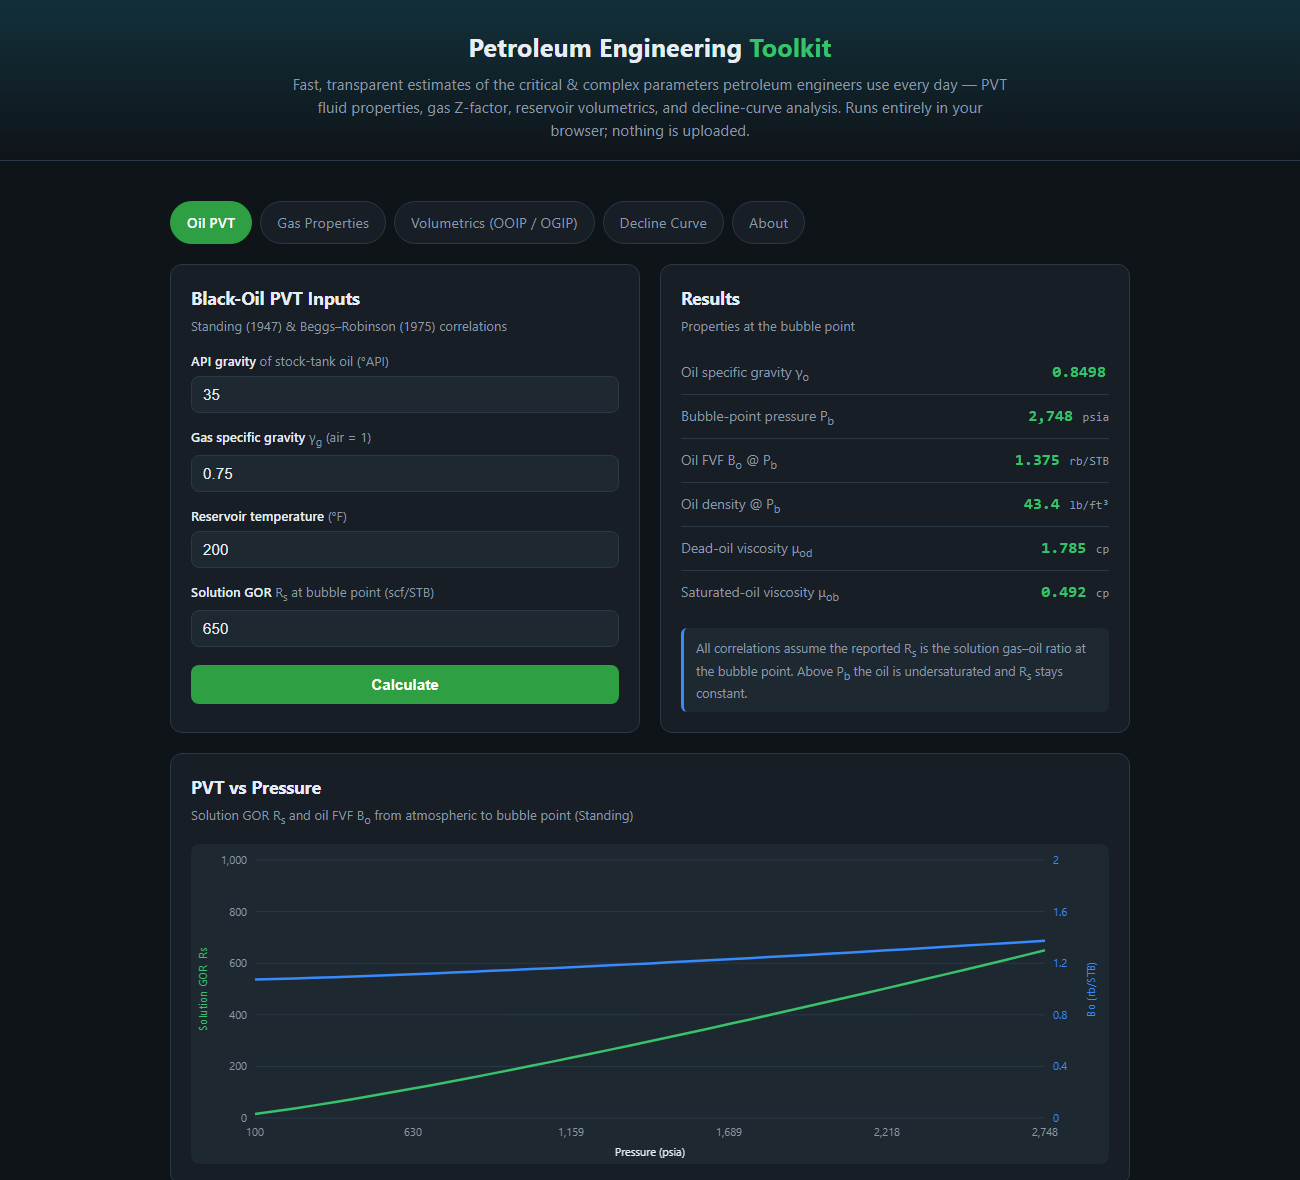
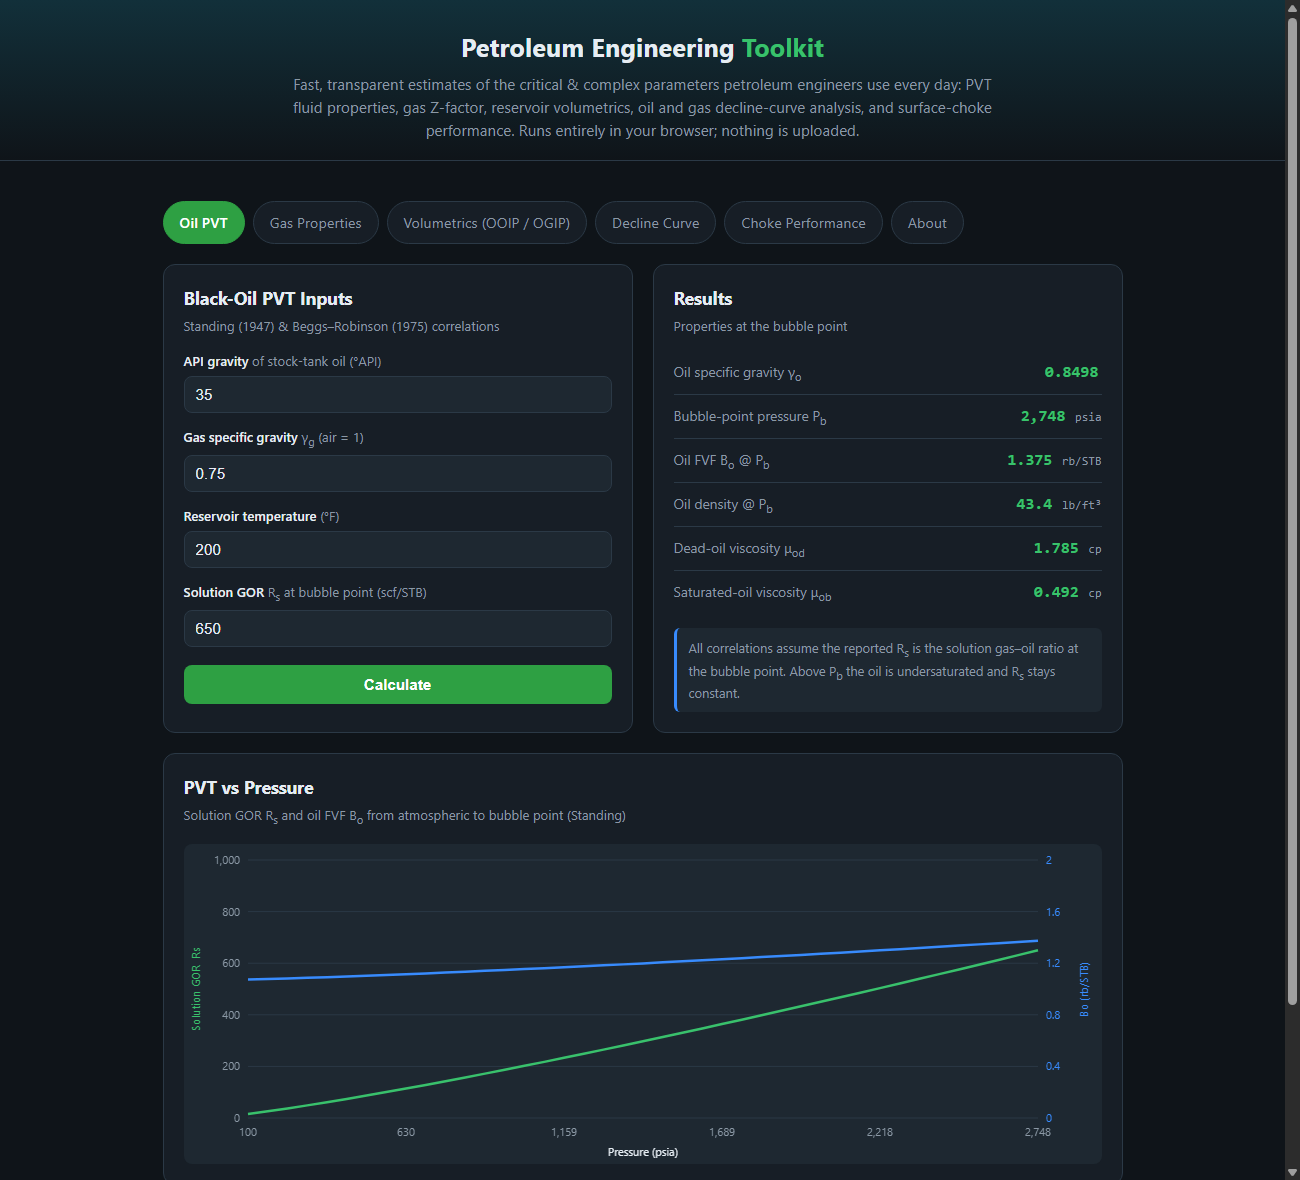
Add Choke Performance module: Gilbert-type critical-flow correlations
New fifth tab that solves P_wh = A*qL*R^B / S^C for liquid rate,
wellhead pressure or bean size, using Gilbert (1954), Ros (1960),
Baxendell (1957) and Achong (1961) constants.

- reports gas rate, bean diameter/area and all four correlations side by side
- flags sub-critical flow from the downstream/upstream pressure ratio,
  and bean sizes or GLRs outside the usual application range
- choke performance curve: liquid rate vs bean size for all four
  correlations, with the operating point marked
- lineChart gains an optional shared y-axis with legend
- constants stated for R in scf/STB, with the Mscf/STB (A = 435) form noted

Suggested by a reader on LinkedIn.

diff --git a/index.html b/index.html
@@ -4,7 +4,7 @@
 <meta charset="UTF-8" />
 <meta name="viewport" content="width=device-width, initial-scale=1.0" />
 <title>Petroleum Engineering Toolkit · PVT &amp; Reservoir Parameters</title>
-<meta name="description" content="Free browser-based calculator for critical petroleum-engineering parameters: PVT fluid properties, gas Z-factor, reservoir volumetrics (OOIP/OGIP) and Arps decline-curve analysis for oil and gas wells." />
+<meta name="description" content="Free browser-based calculator for critical petroleum-engineering parameters: PVT fluid properties, gas Z-factor, reservoir volumetrics (OOIP/OGIP), Arps decline-curve analysis and surface-choke performance for oil and gas wells." />
 <style>
   :root{
     --bg:#0f1419; --panel:#171e26; --panel2:#1e2831; --line:#2b3946;
@@ -61,7 +61,7 @@
 <header>
   <h1>Petroleum Engineering <span>Toolkit</span></h1>
   <p>Fast, transparent estimates of the critical &amp; complex parameters petroleum engineers use every day:
-     PVT fluid properties, gas Z-factor, reservoir volumetrics, and oil and gas decline-curve analysis. Runs entirely in your browser; nothing is uploaded.</p>
+     PVT fluid properties, gas Z-factor, reservoir volumetrics, oil and gas decline-curve analysis, and surface-choke performance. Runs entirely in your browser; nothing is uploaded.</p>
 </header>
 
 <div class="wrap">
@@ -70,6 +70,7 @@
     <div class="tab" data-view="gas">Gas Properties</div>
     <div class="tab" data-view="vol">Volumetrics (OOIP / OGIP)</div>
     <div class="tab" data-view="decline">Decline Curve</div>
+    <div class="tab" data-view="choke">Choke Performance</div>
     <div class="tab" data-view="about">About</div>
   </div>
 
@@ -198,6 +199,48 @@
     </div>
   </div>
 
+  <!-- ============ CHOKE ============ -->
+  <div class="view" id="choke">
+    <div class="grid">
+      <div class="card">
+        <h2>Surface Choke Inputs</h2>
+        <div class="sub">Gilbert-type critical-flow correlations: P<sub>wh</sub> = A&middot;q<sub>L</sub>&middot;R<sup>B</sup> / S<sup>C</sup></div>
+        <div class="seg" id="ck_solve">
+          <button type="button" class="seg-btn active" data-solve="q">Solve rate</button>
+          <button type="button" class="seg-btn" data-solve="p">Solve P<sub>wh</sub></button>
+          <button type="button" class="seg-btn" data-solve="s">Solve choke</button>
+        </div>
+        <div class="field"><label><b>Correlation</b></label>
+          <select id="ck_corr">
+            <option value="gilbert">Gilbert (1954)</option>
+            <option value="ros">Ros (1960)</option>
+            <option value="baxendell">Baxendell (1957)</option>
+            <option value="achong">Achong (1961)</option>
+          </select>
+        </div>
+        <div class="field" id="ck_p_wrap"><label><b>Wellhead (upstream) pressure</b> P<sub>wh</sub> (psig)</label><input id="ck_p" type="number" step="10" value="900"></div>
+        <div class="field" id="ck_q_wrap"><label><b>Gross liquid rate</b> q<sub>L</sub> (STB/day)</label><input id="ck_q" type="number" step="10" value="950"></div>
+        <div class="field" id="ck_s_wrap"><label><b>Choke bean size</b> S (64ths of an inch)</label><input id="ck_s" type="number" step="1" value="24"></div>
+        <div class="field"><label><b>Producing gas/liquid ratio</b> R (scf/STB)</label><input id="ck_glr" type="number" step="50" value="800"></div>
+        <div class="field"><label><b>Flowline (downstream) pressure</b> P<sub>dn</sub> (psig, for the critical-flow check)</label><input id="ck_pdn" type="number" step="10" value="150"></div>
+        <button class="btn" onclick="calcChoke()">Calculate</button>
+      </div>
+      <div class="card">
+        <h2>Results</h2>
+        <div class="sub" id="ck_res_sub">Critical (sonic) flow through a surface bean choke</div>
+        <div class="results" id="ck_out">
+          <div class="res-row"><span class="k">Press Calculate to compute</span><span class="v">&mdash;</span></div>
+        </div>
+        <div class="note" id="ck_note">Valid only in <b>critical flow</b>, where the bean is choked and the rate no longer responds to downstream pressure. Constants here are stated for R in scf/STB; texts that write R in Mscf/STB scale the coefficient by 1000<sup>B</sup> (Gilbert: 435).</div>
+      </div>
+    </div>
+    <div class="card chart-card">
+      <h2>Choke Performance Curve</h2>
+      <div class="sub" id="ck_chart_sub">Liquid rate vs bean size, all four correlations; &#9679; marks your operating point</div>
+      <canvas id="ck_chart" class="chart"></canvas>
+    </div>
+  </div>
+
   <!-- ============ ABOUT ============ -->
   <div class="view" id="about">
     <div class="card">
@@ -216,6 +259,8 @@
         • <code>Beggs &amp; Robinson (1975)</code>: Dead- &amp; saturated-oil viscosity.<br>
         • <code>Lee, González &amp; Eakin (1966)</code>: Gas viscosity.<br>
         • <code>Arps, J.J. (1945)</code>: Decline-curve analysis (exponential, hyperbolic, harmonic).<br>
+        • <code>Gilbert, W.E. (1954)</code>: Critical-flow surface choke correlation, P<sub>wh</sub> = 10&middot;q<sub>L</sub>&middot;R<sup>0.546</sup>/S<sup>1.89</sup>.<br>
+        • <code>Ros (1960)</code>, <code>Baxendell (1957)</code>, <code>Achong (1961)</code>: Same choke form, refitted constants A, B, C.<br>
         • <code>Robertson, S. (1988)</code>: Modified hyperbolic decline, the terminal-decline switch used for gas wells fit with b &gt; 1.<br>
       </div>
       <div class="note warn" style="margin-top:18px">
@@ -245,14 +290,14 @@ document.querySelectorAll('.tab').forEach(t=>{
     t.classList.add('active');
     document.getElementById(t.dataset.view).classList.add('active');
     // redraw the chart now that the canvas has real dimensions
-    const redraw={oil:calcOil,gas:calcGas,vol:calcVol,decline:calcDecline}[t.dataset.view];
+    const redraw={oil:calcOil,gas:calcGas,vol:calcVol,decline:calcDecline,choke:calcChoke}[t.dataset.view];
     if(redraw) redraw();
   });
 });
 window.addEventListener('resize',()=>{
   const active=document.querySelector('.view.active');
   if(!active)return;
-  ({oil:calcOil,gas:calcGas,vol:calcVol,decline:calcDecline}[active.id]||(()=>{}))();
+  ({oil:calcOil,gas:calcGas,vol:calcVol,decline:calcDecline,choke:calcChoke}[active.id]||(()=>{}))();
 });
 
 /* ---------- helpers ---------- */
@@ -271,15 +316,16 @@ function prep(canvas){
   return {ctx,w,h};
 }
 function niceMax(v){ if(v<=0)return 1; const p=Math.pow(10,Math.floor(Math.log10(v))); const f=v/p; return (f<=1?1:f<=2?2:f<=5?5:10)*p; }
-function lineChart(canvasId, series, xlabel, ylabel, marker){
+function lineChart(canvasId, series, xlabel, ylabel, marker, opts){
   const canvas=document.getElementById(canvasId); if(!canvas)return;
   const {ctx,w,h}=prep(canvas);
   const padL=64,padR=64,padT=16,padB=46;
   let xmin=Infinity,xmax=-Infinity,ymin=Infinity,ymax=-Infinity;
   // primary axis from series[0]; optional secondary axis series[1]
   series.forEach(s=>s.pts.forEach(([x,y])=>{if(x<xmin)xmin=x;if(x>xmax)xmax=x;}));
-  const y0=series[0].pts, y1=series[1]?series[1].pts:null;
-  y0.forEach(([,y])=>{if(y<ymin)ymin=y;if(y>ymax)ymax=y;});
+  const shared = !!(opts && opts.shared);            // all series on one axis (no right-hand scale)
+  const y0=series[0].pts, y1=(!shared && series[1])?series[1].pts:null;
+  (shared?series:[series[0]]).forEach(s=>s.pts.forEach(([,y])=>{if(y<ymin)ymin=y;if(y>ymax)ymax=y;}));
   let ymin2=Infinity,ymax2=-Infinity;
   if(y1) y1.forEach(([,y])=>{if(y<ymin2)ymin2=y;if(y>ymax2)ymax2=y;});
   ymin=Math.min(0,ymin); ymax=niceMax(ymax);
@@ -308,11 +354,20 @@ function lineChart(canvasId, series, xlabel, ylabel, marker){
   if(y1){ctx.save();ctx.translate(w-14,(padT+h-padB)/2);ctx.rotate(-Math.PI/2);ctx.fillStyle=series[1].color;ctx.fillText(series[1].name,0,0);ctx.restore();}
   // series
   series.forEach((s,idx)=>{
-    const map=idx===1?sy2:sy;
+    const map=(!shared && idx===1)?sy2:sy;
     ctx.strokeStyle=s.color;ctx.lineWidth=2.5;ctx.beginPath();
     s.pts.forEach(([x,y],i)=>{const px=sx(x),py=map(y);i?ctx.lineTo(px,py):ctx.moveTo(px,py);});
     ctx.stroke();
   });
+  // legend (shared-axis charts only)
+  if(shared){
+    ctx.font='11px Segoe UI';ctx.textAlign='left';
+    series.forEach((s,i)=>{
+      const lx=padL+14, ly=padT+16+i*15;
+      ctx.strokeStyle=s.color;ctx.lineWidth=2.5;ctx.beginPath();ctx.moveTo(lx,ly-4);ctx.lineTo(lx+18,ly-4);ctx.stroke();
+      ctx.fillStyle='#8b98a5';ctx.fillText(s.name,lx+24,ly);
+    });
+  }
   // marker point
   if(marker){ctx.fillStyle='#f0f6fc';ctx.strokeStyle=marker.color||'#f0f6fc';ctx.lineWidth=2;
     const px=sx(marker.x),py=sy(marker.y);ctx.beginPath();ctx.arc(px,py,5,0,2*Math.PI);ctx.fill();ctx.stroke();}
@@ -584,9 +639,102 @@ function calcDecline(){
     ctx.beginPath();ctx.moveTo(padL,y);ctx.lineTo(w-padR,y);ctx.stroke();ctx.setLineDash([]);}
 }
 
+/* ---------- CHOKE (Gilbert-type critical-flow correlations) ---------- */
+/* P_wh = A * qL * R^B / S^C ; P psig, qL STB/day, R scf/STB, S in 64ths of an inch */
+const CK_CORR = {
+  gilbert:  {name:'Gilbert',   year:1954, A:10.00, B:0.546, C:1.89, color:'#39c16c'},
+  ros:      {name:'Ros',       year:1960, A:17.40, B:0.500, C:2.00, color:'#388bfd'},
+  baxendell:{name:'Baxendell', year:1957, A:9.56,  B:0.546, C:1.93, color:'#d29922'},
+  achong:   {name:'Achong',    year:1961, A:3.82,  B:0.650, C:1.88, color:'#c678dd'}
+};
+const ckP = (c,q,R,S) => c.A*q*Math.pow(R,c.B)/Math.pow(S,c.C);
+const ckQ = (c,P,R,S) => P*Math.pow(S,c.C)/(c.A*Math.pow(R,c.B));
+const ckS = (c,P,q,R) => Math.pow(c.A*q*Math.pow(R,c.B)/P, 1/c.C);
+
+let ckSolve = 'q';
+function setCkSolve(mode){
+  ckSolve = mode;
+  document.querySelectorAll('#ck_solve .seg-btn').forEach(b=>b.classList.toggle('active', b.dataset.solve===mode));
+  document.getElementById('ck_p_wrap').style.display = mode==='p'?'none':'block';
+  document.getElementById('ck_q_wrap').style.display = mode==='q'?'none':'block';
+  document.getElementById('ck_s_wrap').style.display = mode==='s'?'none':'block';
+  document.getElementById('ck_res_sub').textContent =
+    {q:'Liquid rate the bean will pass in critical flow',
+     p:'Wellhead pressure required upstream of the bean',
+     s:'Bean size needed to pass the given rate'}[mode];
+  calcChoke();
+}
+document.querySelectorAll('#ck_solve .seg-btn').forEach(b=>{
+  b.addEventListener('click',()=>setCkSolve(b.dataset.solve));
+});
+document.getElementById('ck_corr').addEventListener('change',calcChoke);
+
+function calcChoke(){
+  const c = CK_CORR[document.getElementById('ck_corr').value];
+  const R = num('ck_glr'), Pdn = num('ck_pdn');
+  const out = document.getElementById('ck_out');
+  let P = num('ck_p'), q = num('ck_q'), S = num('ck_s');
+
+  const need = {q:[P,S], p:[q,S], s:[P,q]}[ckSolve];
+  if(!(R>0) || need.some(v=>!(v>0))){
+    out.innerHTML = row('Check inputs','all values must be greater than zero');
+    return;
+  }
+  if(ckSolve==='q')      q = ckQ(c,P,R,S);
+  else if(ckSolve==='p') P = ckP(c,q,R,S);
+  else                   S = ckS(c,P,q,R);
+
+  const d_in = S/64, area = Math.PI/4*d_in*d_in;
+  const ratio = (Pdn>0) ? (Pdn+14.7)/(P+14.7) : null;
+
+  const solved = {q:['Liquid rate q<sub>L</sub>', fmt(q,0), ' STB/day'],
+                  p:['Wellhead pressure P<sub>wh</sub>', fmt(P,0), ' psig'],
+                  s:['Choke size S', fmt(S,1), ' /64 in']}[ckSolve];
+  let html = row('Correlation', c.name+' ('+c.year+')');
+  html += row('<b style="color:var(--text)">'+solved[0]+'</b>', solved[1], solved[2]);
+  html += row('Choke diameter', fmt(d_in,4)+' in / '+fmt(d_in*25.4,2)+' mm');
+  html += row('Choke flow area', fmt(area,4), ' in&sup2;');
+  html += row('Gas rate q<sub>g</sub> = q<sub>L</sub>&middot;R', fmt(q*R/1000,0), ' Mscf/day');
+  if(ratio!==null) html += row('Pressure ratio P<sub>dn</sub>/P<sub>wh</sub> (abs)', fmt(ratio,3));
+
+  html += `<div class="res-row"><span class="k" style="color:var(--text);font-weight:600">Other correlations</span><span class="v"></span></div>`;
+  Object.keys(CK_CORR).filter(k=>CK_CORR[k]!==c).forEach(k=>{
+    const o = CK_CORR[k];
+    const v = ckSolve==='q' ? fmt(ckQ(o,P,R,S),0)+' STB/day'
+            : ckSolve==='p' ? fmt(ckP(o,q,R,S),0)+' psig'
+            :                 fmt(ckS(o,P,q,R),1)+' /64 in';
+    html += row(o.name, v);
+  });
+
+  if(ratio!==null && ratio>0.70){
+    html += `<div class="note warn">&#9888; P<sub>dn</sub>/P<sub>wh</sub> = ${fmt(ratio,2)} &gt; 0.70, so the bean is almost certainly in <b>sub-critical</b> flow. Rate then depends on downstream pressure and these correlations do not apply. Use a sub-critical choke model instead.</div>`;
+  }else if(ratio!==null && ratio>0.55){
+    html += `<div class="note warn">&#9888; P<sub>dn</sub>/P<sub>wh</sub> = ${fmt(ratio,2)} sits in the transition band. Sonic flow is usually assumed below about 0.55, and Gilbert's practical rule is 0.70; treat this point as borderline.</div>`;
+  }
+  const flags=[];
+  if(S<4||S>64) flags.push('bean size '+fmt(S,1)+'/64 in');
+  if(R<50||R>5000) flags.push('GLR '+fmt(R,0)+' scf/STB');
+  if(flags.length){
+    html += `<div class="note warn">&#9888; ${flags.join(' and ')} falls outside the range these field-fitted correlations are normally applied over. Extrapolate with care.</div>`;
+  }
+  out.innerHTML = html;
+
+  // chart: liquid rate vs bean size at this P and R, one curve per correlation
+  const series = Object.keys(CK_CORR).map(k=>{
+    const o=CK_CORR[k], pts=[];
+    for(let s=6;s<=64;s+=0.5) pts.push([s, ckQ(o,P,R,s)]);
+    return {name:o.name, color:o.color, pts:pts};
+  });
+  lineChart('ck_chart', series, 'Bean size S (64ths of an inch)', 'Liquid rate (STB/day)',
+            {x:S, y:q, color:c.color}, {shared:true});
+  document.getElementById('ck_chart_sub').innerHTML =
+    'Liquid rate vs bean size at P<sub>wh</sub> = '+fmt(P,0)+' psig and R = '+fmt(R,0)+
+    ' scf/STB, all four correlations; &#9679; marks your operating point';
+}
+
 /* init */
 document.getElementById('repoLink').href = 'https://github.com/Kouroshie/petroleum-toolkit';
-calcOil(); calcGas(); calcVol(); setDecFluid('oil', true);
+calcOil(); calcGas(); calcVol(); setDecFluid('oil', true); setCkSolve('q');
 </script>
 </body>
 </html>

diff --git a/README.md b/README.md
@@ -1,10 +1,10 @@
 # 🛢 Petroleum Engineering Toolkit
 
-A free, browser-based calculator for the **critical and complex parameters petroleum engineers use every day**: PVT fluid properties, gas Z-factor, reservoir volumetrics, and oil and gas decline-curve analysis. No install, no sign-up, no data leaves your device. Everything runs client-side in a single HTML file.
+A free, browser-based calculator for the **critical and complex parameters petroleum engineers use every day**: PVT fluid properties, gas Z-factor, reservoir volumetrics, oil and gas decline-curve analysis, and surface-choke performance. No install, no sign-up, no data leaves your device. Everything runs client-side in a single HTML file.
 
 ### ▶ Live tool: **https://kouroshie.github.io/petroleum-toolkit/**
 
-Four modules (Oil PVT, Gas Properties, Volumetrics, and Decline Curve), each with an interactive chart: Rs & Bₒ vs pressure, Z-factor vs pressure, production forecast, and a reservoir-volume breakdown.
+Five modules (Oil PVT, Gas Properties, Volumetrics, Decline Curve, and Choke Performance), each with an interactive chart: Rs & Bₒ vs pressure, Z-factor vs pressure, production forecast, a reservoir-volume breakdown, and a choke performance curve.
 
 ![Petroleum Engineering Toolkit screenshot](docs/screenshot.png)
 
@@ -22,6 +22,7 @@ Reservoir and production engineers constantly need quick, defensible estimates o
 | **Gas Properties** | Pseudo-criticals, Z-factor, gas FVF (Bg), gas density, gas viscosity | Sutton (1985), Dranchuk–Abou-Kassem (1975), Lee et al. (1966) |
 | **Volumetrics** | STOIIP / OGIP, pore & hydrocarbon pore volume, recoverable reserves | Volumetric method |
 | **Decline Curve** | Oil **or gas** well rate forecast, time to economic limit, EUR (MMSTB or Bcf) | Arps (1945): exponential / hyperbolic / harmonic, plus a modified-hyperbolic terminal-decline switch (Robertson, 1988) for gas wells fit with b > 1 |
+| **Choke Performance** | Solves for liquid rate, wellhead pressure **or** bean size in critical flow; gas rate, bean diameter and area, critical-flow check | Gilbert (1954), Ros (1960), Baxendell (1957), Achong (1961): P_wh = A·q_L·R^B / S^C |
 
 ## How to use
 
@@ -39,6 +40,8 @@ No build step, no dependencies.
 
 The correlations are verified against published reference values. For example, the Dranchuk–Abou-Kassem Z-factor reproduces the Standing–Katz chart to within chart-reading accuracy across the validated range (0.2 ≤ P_pr ≤ 30, 1.0 < T_pr ≤ 3.0). Results outside a correlation's valid range are flagged in the UI.
 
+The choke module uses the constants A, B, C stated for **R in scf/STB**, q_L in STB/day, S in 64ths of an inch and P_wh in psig (Gilbert: A = 10.00, B = 0.546, C = 1.89). Texts that write R in Mscf/STB scale the coefficient by 1000^B, giving A = 435 for Gilbert; both forms return the same pressure. Solving for rate, pressure and bean size round-trips exactly, and the four correlations agree within roughly 25% over normal field conditions. Because the correlations assume the bean is choked, the module flags any case where the downstream/upstream absolute pressure ratio leaves the critical-flow region.
+
 ## ⚠ Disclaimer
 
 These are **screening-level estimates** from published correlations, provided for educational and preliminary use with **no warranty**. They are not a substitute for laboratory-measured PVT or history-matched simulation. Always calibrate to measured data before any reserves booking, engineering commitment, or financial decision. The author accepts no liability for decisions made using this tool.
@@ -52,6 +55,8 @@ These are **screening-level estimates** from published correlations, provided fo
 - Lee, A.L., González, M.H. & Eakin, B.E. (1966). *The Viscosity of Natural Gases.* JPT.
 - Arps, J.J. (1945). *Analysis of Decline Curves.* Trans. AIME.
 - Robertson, S. (1988). *Generalized Hyperbolic Equation.* SPE 18731 (terminal-decline / modified hyperbolic).
+- Gilbert, W.E. (1954). *Flowing and Gas-Lift Well Performance.* API Drilling & Production Practice (surface-choke critical-flow correlation).
+- Baxendell, P.B. (1957), Ros, N.C.J. (1960), Achong, I.B. (1961). Refits of Gilbert's choke correlation constants.
 
 ## License
 
